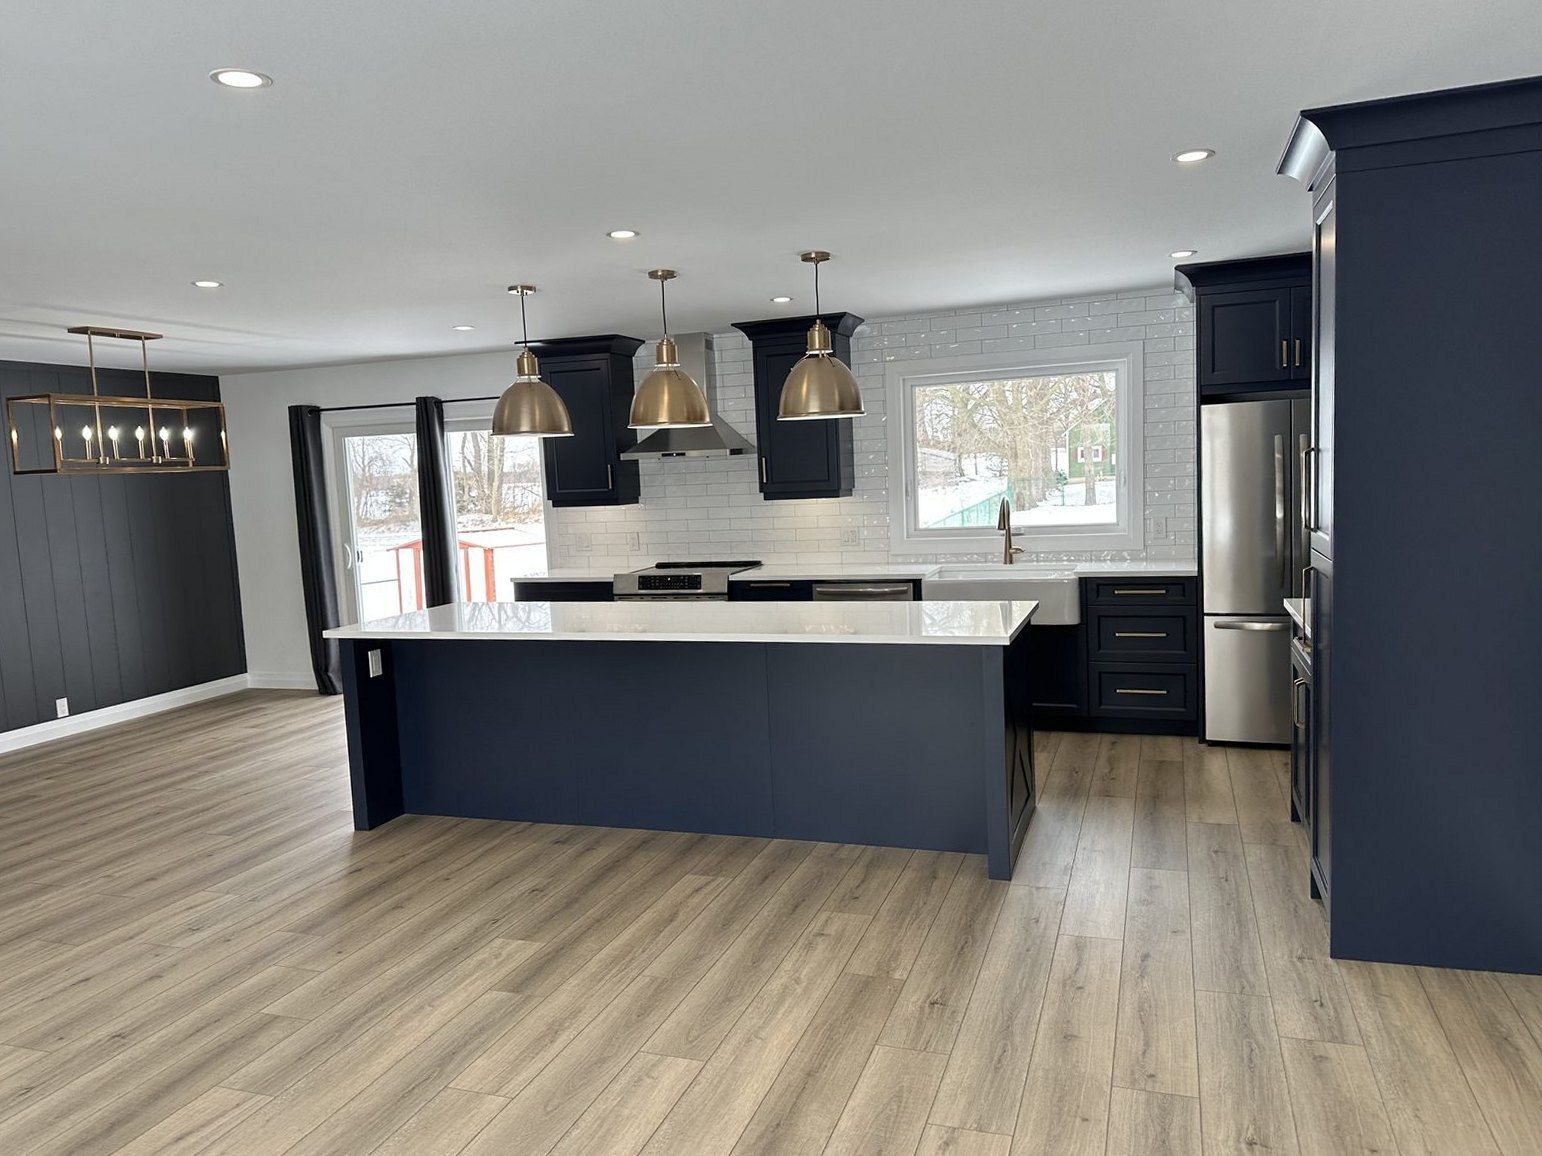
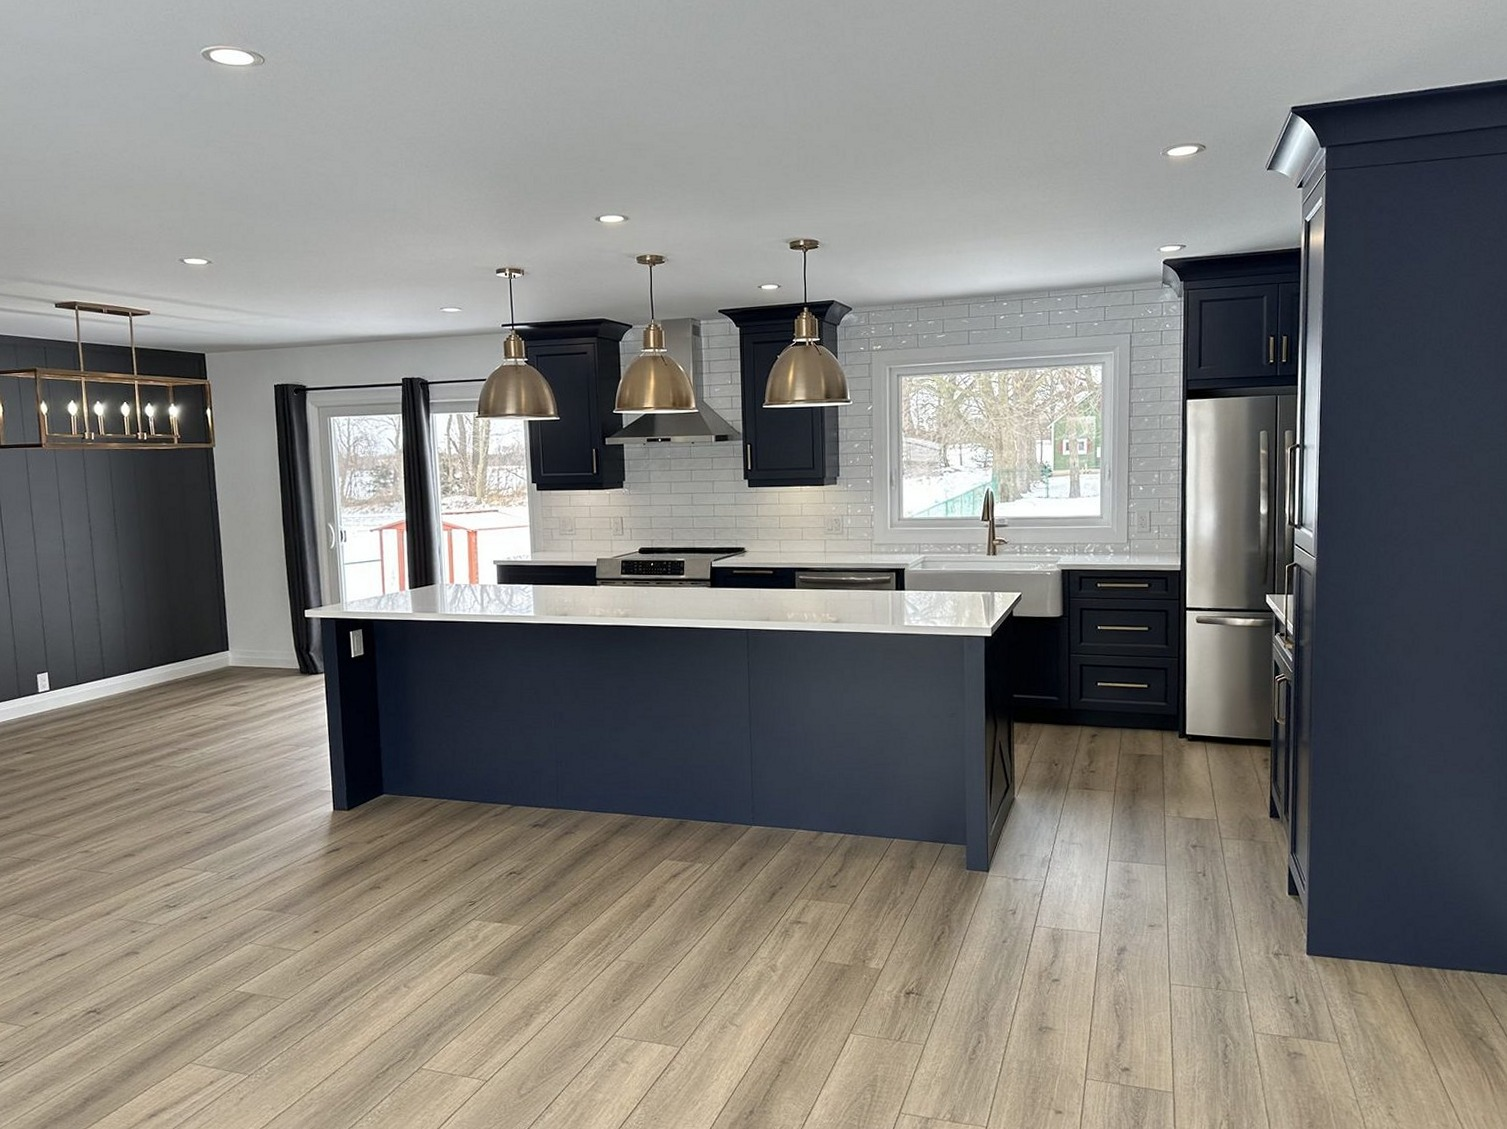
Level the navy kitchen and lead the deck with the wide shot
Rotates the feature photograph a degree clockwise, chosen by eye from
rendered candidates. Two attempts at measuring the tilt automatically
had failed: the first read the diagonal tile patterns as 44 degree
tilts, the second returned the same 0.05 degrees for every photograph
because WebP block edges sit at exactly zero and drown out the content.

The rotation runs from the JPEG rather than the WebP, since the WebP was
derived from it and is a generation further along, and saves at a higher
quality than usual so the extra round trip costs as little as possible.
No larger original of this shot exists in the inbox.

The deck project now opens on the photograph that shows the whole thing,
screens, steps and all, rather than the view along the deck boards.

diff --git a/gallery.html b/gallery.html
@@ -187,13 +187,13 @@
         </li>
         <li class="mosaic__item">
           <button type="button" class="mosaic__btn" data-project="p19">
-            <img src="images/g-deck-wide.webp" alt="Raised cedar deck with privacy screening along two sides" loading="lazy">
+            <img src="images/g-deck-screen.webp" alt="Raised deck with cedar privacy screens and steps down to the garden" loading="lazy">
             <span class="mosaic__label">Deck and privacy screens<em>3 photos</em></span>
           </button>
         </li>
       </ul>
 
-      <script type="application/json" id="project-data">{"p0": {"title": "Fireplace surround", "note": "Full-height porcelain in a marble look, run floor to ceiling and returned around the corner so no cut edge is ever on show. The mantel is solid timber on concealed blocks, set above a see-through firebox.", "photos": [{"src": "images/g-fire-room.webp", "alt": "Black marble-look fireplace surround running full height"}, {"src": "images/g-fire-wide.webp", "alt": "The surround straight on with television above the mantel"}, {"src": "images/g-fire-mantel.webp", "alt": "Timber mantel on cantilevered blocks above the firebox"}]}, "p1": {"title": "Charcoal shower", "note": "Large-format walls with a hexagon feature and a quartz bench. Behind all of it is a bonded waterproofing membrane taken up the walls and over the bench before a single tile went on. Levelling clips hold every tile flush while the mortar cures.", "photos": [{"src": "images/g-shower-done.webp", "alt": "Charcoal shower with hexagon feature wall and quartz bench", "stage": "Finished"}, {"src": "images/g-shower-progress.webp", "alt": "The same shower mid-build, waterproofing membrane and levelling clips visible", "stage": "During: waterproofing and levelling clips"}]}, "p2": {"title": "Fireplace and floating shelves", "note": "Concrete-look porcelain laid in herringbone, which means every tile is a cut and the pattern has to stay true right across the wall. Solid oak mantel and floating shelves, mitred where they return into the corner.", "photos": [{"src": "images/g-fire2-room.webp", "alt": "Living room with herringbone tiled fireplace wall and oak shelves"}, {"src": "images/g-fire2-wall.webp", "alt": "The fireplace wall straight on showing the herringbone pattern"}, {"src": "images/g-fire2-shelves.webp", "alt": "Solid oak floating shelves mitred into the corner"}]}, "p3": {"title": "Marble-look bathroom", "note": "Large-format porcelain with a pebble mosaic strip run floor to ceiling as a feature. The niche is framed in quartz so there is no exposed tile edge anywhere you would put your hand.", "photos": [{"src": "images/g-mbath-shower.webp", "alt": "Shower in marble-look large-format tile"}, {"src": "images/g-mbath-niche.webp", "alt": "Pebble mosaic feature strip beside a quartz-framed niche"}, {"src": "images/g-mbath-vanity.webp", "alt": "Vessel sink on a shaped quartz counter"}, {"src": "images/g-mbath-wide.webp", "alt": "The finished room with round mirror and sconces"}, {"src": "images/g-mbath-tub.webp", "alt": "The same bathroom wider, showing the tub set into the tiled surround"}]}, "p4": {"title": "Navy kitchen", "note": "Shaker cabinetry with a quartz island, glazed subway backsplash and brass pendants. The island end is panelled with a cross detail rather than left flat.", "photos": [{"src": "images/g-kitchen-wide.webp", "alt": "Finished navy kitchen seen from the dining area"}, {"src": "images/g-kitchen-island.webp", "alt": "The island from the side showing the cross-panel end"}, {"src": "images/g-kitchen-range.webp", "alt": "Range wall with stainless hood and tiled backsplash"}, {"src": "images/g-kitchen-galley.webp", "alt": "View along the cabinetry to the farmhouse sink"}]}, "p5": {"title": "Basement, start to finish", "note": "Exposed joists and a concrete floor turned into a laundry and hallway. Framing, insulation and drywall through to herringbone tile, oak cabinetry and a quartz top.", "photos": [{"src": "images/g-base-laundry.webp", "alt": "Finished basement laundry with oak cabinetry and herringbone tile", "stage": "After"}, {"src": "images/g-floor-hall.webp", "alt": "Finished hallway with herringbone tile running through", "stage": "After"}, {"src": "images/g-base-before.webp", "alt": "The same basement before, exposed joists and concrete floor", "stage": "Before"}, {"src": "images/g-base-during.webp", "alt": "Framed up mid-build", "stage": "During: framing"}], "place": "Simcoe"}, "p6": {"title": "White shaker kitchen", "note": "Quartz peninsula, picket tile backsplash and a full run of shaker cabinetry opened to the living room. The floor was out of level, so the boxes were cut and scribed to sit true rather than shimmed.", "photos": [{"src": "images/g-wkit-open.webp", "alt": "White shaker kitchen open to the living room"}, {"src": "images/g-wkit-peninsula.webp", "alt": "Quartz peninsula with undermount sink and pendants"}, {"src": "images/g-wkit-range.webp", "alt": "Range wall with picket tile backsplash"}, {"src": "images/g-wkit-run.webp", "alt": "Full cabinetry run with tall pantry"}]}, "p7": {"title": "Tiled tub surround", "note": "The plastic surround that came with the bathroom was torn out and replaced with large-format porcelain, including a recessed niche trimmed in the same tile so the edges are mitred rather than capped. The before photograph is the old surround, not our work.", "photos": [{"src": "images/g-tub-after.webp", "alt": "Tiled tub surround in marble-look large format with a recessed niche", "stage": "After: tiled"}, {"src": "images/g-tub-before.webp", "alt": "The same tub before, with a moulded plastic surround", "stage": "Before: existing plastic surround"}]}, "p8": {"title": "Built-ins", "note": "Cabinetry built for the room it sits in rather than bought to fit it. Media wall with drawer banks and upper cabinets, and a fitted closet with shelving and rails set out to the owner's things.", "photos": [{"src": "images/g-builtin-media.webp", "alt": "Built-in media wall in sage green"}, {"src": "images/g-closet.webp", "alt": "Fitted closet with built-in shelving and rails"}, {"src": "images/g-builtin-panel.webp", "alt": "Built-in cabinet run below a cross-braced panelled wall"}, {"src": "images/g-closet2.webp", "alt": "Fitted closet with adjustable shelving and a double hanging rail"}]}, "p9": {"title": "Bathroom with patterned floor", "note": "Patterned floor tile laid so the repeat stays centred in the room, with a marble-look shower behind frameless glass.", "photos": [{"src": "images/g-pbath-room.webp", "alt": "The finished bathroom with patterned floor tile, looking through to the shower"}, {"src": "images/g-pbath-shower.webp", "alt": "Marble-look shower with glass surround"}, {"src": "images/g-pbath-bench.webp", "alt": "The shower from the doorway, showing the bench and the patterned floor"}]}, "p10": {"title": "White and black bathroom", "note": "Handmade-look subway run as a wainscot with a capped edge, black fittings throughout, and slate-look floor tile.", "photos": [{"src": "images/g-bath2-shower.webp", "alt": "Tub and shower with black framed sliding glass"}, {"src": "images/g-bath2-vanity.webp", "alt": "Vanity with arched black-framed mirror"}, {"src": "images/g-bath2-wide.webp", "alt": "The finished room showing the tiled wainscot"}, {"src": "images/g-bath2-tub.webp", "alt": "The tub and black framed glass seen from the vanity end"}]}, "p11": {"title": "Basement laundry", "note": "Backsplash tile set off a laser line with levelling clips, a coffered ceiling, plank flooring and fitted panelled doors.", "photos": [{"src": "images/g-laundry-wide.webp", "alt": "Finished basement laundry with tiled backsplash and coffered ceiling"}, {"src": "images/g-laundry-tiling.webp", "alt": "Joel setting the backsplash off a laser line", "stage": "During: setting the backsplash"}, {"src": "images/g-laundry-sink.webp", "alt": "Laundry sink and taps against the tiled wall"}]}, "p12": {"title": "Backsplashes", "note": "Arabesque glass and chevron mosaic. Both are laid out dry first so the cuts land where they are least seen, at the edges rather than through the middle of the wall.", "photos": [{"src": "images/g-tile-arabesque.webp", "alt": "Blue and grey arabesque glass tile backsplash"}, {"src": "images/g-tile-chevron.webp", "alt": "White chevron mosaic tile backsplash"}]}, "p13": {"title": "Sage green kitchen", "note": "Flat panel cabinetry in a muted green with a fireclay apron sink and a built on site hood. The subway tile is stacked to a laser line rather than followed off the counter, so the joints stay true the full width of the wall.", "photos": [{"src": "images/g-sage-wide.webp", "alt": "Sage green kitchen looking down the run to the range and hood"}, {"src": "images/g-sage-sink.webp", "alt": "Fireclay apron sink under the window with subway tile behind"}, {"src": "images/g-sage-fridge.webp", "alt": "Tall cabinetry beside the fridge with a built in microwave"}]}, "p14": {"title": "Marble and black bathroom", "note": "Tub and shower in one room, in large format porcelain with a marble look. The tub apron is tiled and mitred at the corner rather than capped with trim, and the niche is lined in the same dark hexagon mosaic as the floor.", "photos": [{"src": "images/g-cbath-shower.webp", "alt": "Shower in marble look porcelain behind black framed glass"}, {"src": "images/g-cbath-tub.webp", "alt": "Tub set into a tiled surround with black fittings"}]}, "p15": {"title": "Traditional white kitchen", "note": "Painted cabinetry with glazed upper doors, a tiled backsplash and large format stone look floor tile carried through into the dining area.", "photos": [{"src": "images/g-tkit-wide.webp", "alt": "White kitchen with glazed upper cabinets and a tiled floor"}, {"src": "images/g-tkit-glass.webp", "alt": "Cabinetry beside the patio door with glass fronted uppers"}]}, "p16": {"title": "Herringbone range wall", "note": "Stone look porcelain run in herringbone the full height behind the range. Every tile in a herringbone is a cut, and the layout is set off the centre line of the hood so the pattern stays symmetrical on both sides.", "photos": [{"src": "images/g-hkit-hood.webp", "alt": "Herringbone tiled range wall with a stainless chimney hood"}]}, "p17": {"title": "Geometric backsplash", "note": "A geometric mosaic against dark stained cabinetry and a quartz counter. Sheet mosaic shows every misalignment, so the sheets are dry laid across the whole run and the grid trued up before any of it is fixed.", "photos": [{"src": "images/g-gkit-backsplash.webp", "alt": "White geometric mosaic backsplash above a quartz counter"}]}, "p18": {"title": "New counters, existing cabinets", "note": "The oak was sound and worth keeping, so the job was quartz counters, a new sink and tap and a tiled backsplash, rather than tearing out a kitchen that had years left in it.", "photos": [{"src": "images/g-counters-oak.webp", "alt": "Quartz counters and a new backsplash fitted to existing oak cabinets"}]}, "p19": {"title": "Deck and privacy screens", "note": "A raised deck with cedar privacy screens. The screens are framed and infilled rather than butted together, so the boards can move with the weather without opening gaps along the joints.", "photos": [{"src": "images/g-deck-wide.webp", "alt": "Raised cedar deck with privacy screening along two sides"}, {"src": "images/g-deck-screen.webp", "alt": "Privacy screens and steps down to the garden"}, {"src": "images/g-deck-cedar.webp", "alt": "Cedar screen wall seen along the deck"}]}}</script>
+      <script type="application/json" id="project-data">{"p0": {"title": "Fireplace surround", "note": "Full-height porcelain in a marble look, run floor to ceiling and returned around the corner so no cut edge is ever on show. The mantel is solid timber on concealed blocks, set above a see-through firebox.", "photos": [{"src": "images/g-fire-room.webp", "alt": "Black marble-look fireplace surround running full height"}, {"src": "images/g-fire-wide.webp", "alt": "The surround straight on with television above the mantel"}, {"src": "images/g-fire-mantel.webp", "alt": "Timber mantel on cantilevered blocks above the firebox"}]}, "p1": {"title": "Charcoal shower", "note": "Large-format walls with a hexagon feature and a quartz bench. Behind all of it is a bonded waterproofing membrane taken up the walls and over the bench before a single tile went on. Levelling clips hold every tile flush while the mortar cures.", "photos": [{"src": "images/g-shower-done.webp", "alt": "Charcoal shower with hexagon feature wall and quartz bench", "stage": "Finished"}, {"src": "images/g-shower-progress.webp", "alt": "The same shower mid-build, waterproofing membrane and levelling clips visible", "stage": "During: waterproofing and levelling clips"}]}, "p2": {"title": "Fireplace and floating shelves", "note": "Concrete-look porcelain laid in herringbone, which means every tile is a cut and the pattern has to stay true right across the wall. Solid oak mantel and floating shelves, mitred where they return into the corner.", "photos": [{"src": "images/g-fire2-room.webp", "alt": "Living room with herringbone tiled fireplace wall and oak shelves"}, {"src": "images/g-fire2-wall.webp", "alt": "The fireplace wall straight on showing the herringbone pattern"}, {"src": "images/g-fire2-shelves.webp", "alt": "Solid oak floating shelves mitred into the corner"}]}, "p3": {"title": "Marble-look bathroom", "note": "Large-format porcelain with a pebble mosaic strip run floor to ceiling as a feature. The niche is framed in quartz so there is no exposed tile edge anywhere you would put your hand.", "photos": [{"src": "images/g-mbath-shower.webp", "alt": "Shower in marble-look large-format tile"}, {"src": "images/g-mbath-niche.webp", "alt": "Pebble mosaic feature strip beside a quartz-framed niche"}, {"src": "images/g-mbath-vanity.webp", "alt": "Vessel sink on a shaped quartz counter"}, {"src": "images/g-mbath-wide.webp", "alt": "The finished room with round mirror and sconces"}, {"src": "images/g-mbath-tub.webp", "alt": "The same bathroom wider, showing the tub set into the tiled surround"}]}, "p4": {"title": "Navy kitchen", "note": "Shaker cabinetry with a quartz island, glazed subway backsplash and brass pendants. The island end is panelled with a cross detail rather than left flat.", "photos": [{"src": "images/g-kitchen-wide.webp", "alt": "Finished navy kitchen seen from the dining area"}, {"src": "images/g-kitchen-island.webp", "alt": "The island from the side showing the cross-panel end"}, {"src": "images/g-kitchen-range.webp", "alt": "Range wall with stainless hood and tiled backsplash"}, {"src": "images/g-kitchen-galley.webp", "alt": "View along the cabinetry to the farmhouse sink"}]}, "p5": {"title": "Basement, start to finish", "note": "Exposed joists and a concrete floor turned into a laundry and hallway. Framing, insulation and drywall through to herringbone tile, oak cabinetry and a quartz top.", "photos": [{"src": "images/g-base-laundry.webp", "alt": "Finished basement laundry with oak cabinetry and herringbone tile", "stage": "After"}, {"src": "images/g-floor-hall.webp", "alt": "Finished hallway with herringbone tile running through", "stage": "After"}, {"src": "images/g-base-before.webp", "alt": "The same basement before, exposed joists and concrete floor", "stage": "Before"}, {"src": "images/g-base-during.webp", "alt": "Framed up mid-build", "stage": "During: framing"}], "place": "Simcoe"}, "p6": {"title": "White shaker kitchen", "note": "Quartz peninsula, picket tile backsplash and a full run of shaker cabinetry opened to the living room. The floor was out of level, so the boxes were cut and scribed to sit true rather than shimmed.", "photos": [{"src": "images/g-wkit-open.webp", "alt": "White shaker kitchen open to the living room"}, {"src": "images/g-wkit-peninsula.webp", "alt": "Quartz peninsula with undermount sink and pendants"}, {"src": "images/g-wkit-range.webp", "alt": "Range wall with picket tile backsplash"}, {"src": "images/g-wkit-run.webp", "alt": "Full cabinetry run with tall pantry"}]}, "p7": {"title": "Tiled tub surround", "note": "The plastic surround that came with the bathroom was torn out and replaced with large-format porcelain, including a recessed niche trimmed in the same tile so the edges are mitred rather than capped. The before photograph is the old surround, not our work.", "photos": [{"src": "images/g-tub-after.webp", "alt": "Tiled tub surround in marble-look large format with a recessed niche", "stage": "After: tiled"}, {"src": "images/g-tub-before.webp", "alt": "The same tub before, with a moulded plastic surround", "stage": "Before: existing plastic surround"}]}, "p8": {"title": "Built-ins", "note": "Cabinetry built for the room it sits in rather than bought to fit it. Media wall with drawer banks and upper cabinets, and a fitted closet with shelving and rails set out to the owner's things.", "photos": [{"src": "images/g-builtin-media.webp", "alt": "Built-in media wall in sage green"}, {"src": "images/g-closet.webp", "alt": "Fitted closet with built-in shelving and rails"}, {"src": "images/g-builtin-panel.webp", "alt": "Built-in cabinet run below a cross-braced panelled wall"}, {"src": "images/g-closet2.webp", "alt": "Fitted closet with adjustable shelving and a double hanging rail"}]}, "p9": {"title": "Bathroom with patterned floor", "note": "Patterned floor tile laid so the repeat stays centred in the room, with a marble-look shower behind frameless glass.", "photos": [{"src": "images/g-pbath-room.webp", "alt": "The finished bathroom with patterned floor tile, looking through to the shower"}, {"src": "images/g-pbath-shower.webp", "alt": "Marble-look shower with glass surround"}, {"src": "images/g-pbath-bench.webp", "alt": "The shower from the doorway, showing the bench and the patterned floor"}]}, "p10": {"title": "White and black bathroom", "note": "Handmade-look subway run as a wainscot with a capped edge, black fittings throughout, and slate-look floor tile.", "photos": [{"src": "images/g-bath2-shower.webp", "alt": "Tub and shower with black framed sliding glass"}, {"src": "images/g-bath2-vanity.webp", "alt": "Vanity with arched black-framed mirror"}, {"src": "images/g-bath2-wide.webp", "alt": "The finished room showing the tiled wainscot"}, {"src": "images/g-bath2-tub.webp", "alt": "The tub and black framed glass seen from the vanity end"}]}, "p11": {"title": "Basement laundry", "note": "Backsplash tile set off a laser line with levelling clips, a coffered ceiling, plank flooring and fitted panelled doors.", "photos": [{"src": "images/g-laundry-wide.webp", "alt": "Finished basement laundry with tiled backsplash and coffered ceiling"}, {"src": "images/g-laundry-tiling.webp", "alt": "Joel setting the backsplash off a laser line", "stage": "During: setting the backsplash"}, {"src": "images/g-laundry-sink.webp", "alt": "Laundry sink and taps against the tiled wall"}]}, "p12": {"title": "Backsplashes", "note": "Arabesque glass and chevron mosaic. Both are laid out dry first so the cuts land where they are least seen, at the edges rather than through the middle of the wall.", "photos": [{"src": "images/g-tile-arabesque.webp", "alt": "Blue and grey arabesque glass tile backsplash"}, {"src": "images/g-tile-chevron.webp", "alt": "White chevron mosaic tile backsplash"}]}, "p13": {"title": "Sage green kitchen", "note": "Flat panel cabinetry in a muted green with a fireclay apron sink and a built on site hood. The subway tile is stacked to a laser line rather than followed off the counter, so the joints stay true the full width of the wall.", "photos": [{"src": "images/g-sage-wide.webp", "alt": "Sage green kitchen looking down the run to the range and hood"}, {"src": "images/g-sage-sink.webp", "alt": "Fireclay apron sink under the window with subway tile behind"}, {"src": "images/g-sage-fridge.webp", "alt": "Tall cabinetry beside the fridge with a built in microwave"}]}, "p14": {"title": "Marble and black bathroom", "note": "Tub and shower in one room, in large format porcelain with a marble look. The tub apron is tiled and mitred at the corner rather than capped with trim, and the niche is lined in the same dark hexagon mosaic as the floor.", "photos": [{"src": "images/g-cbath-shower.webp", "alt": "Shower in marble look porcelain behind black framed glass"}, {"src": "images/g-cbath-tub.webp", "alt": "Tub set into a tiled surround with black fittings"}]}, "p15": {"title": "Traditional white kitchen", "note": "Painted cabinetry with glazed upper doors, a tiled backsplash and large format stone look floor tile carried through into the dining area.", "photos": [{"src": "images/g-tkit-wide.webp", "alt": "White kitchen with glazed upper cabinets and a tiled floor"}, {"src": "images/g-tkit-glass.webp", "alt": "Cabinetry beside the patio door with glass fronted uppers"}]}, "p16": {"title": "Herringbone range wall", "note": "Stone look porcelain run in herringbone the full height behind the range. Every tile in a herringbone is a cut, and the layout is set off the centre line of the hood so the pattern stays symmetrical on both sides.", "photos": [{"src": "images/g-hkit-hood.webp", "alt": "Herringbone tiled range wall with a stainless chimney hood"}]}, "p17": {"title": "Geometric backsplash", "note": "A geometric mosaic against dark stained cabinetry and a quartz counter. Sheet mosaic shows every misalignment, so the sheets are dry laid across the whole run and the grid trued up before any of it is fixed.", "photos": [{"src": "images/g-gkit-backsplash.webp", "alt": "White geometric mosaic backsplash above a quartz counter"}]}, "p18": {"title": "New counters, existing cabinets", "note": "The oak was sound and worth keeping, so the job was quartz counters, a new sink and tap and a tiled backsplash, rather than tearing out a kitchen that had years left in it.", "photos": [{"src": "images/g-counters-oak.webp", "alt": "Quartz counters and a new backsplash fitted to existing oak cabinets"}]}, "p19": {"title": "Deck and privacy screens", "note": "A raised deck with cedar privacy screens. The screens are framed and infilled rather than butted together, so the boards can move with the weather without opening gaps along the joints.", "photos": [{"src": "images/g-deck-screen.webp", "alt": "Raised deck with cedar privacy screens and steps down to the garden"}, {"src": "images/g-deck-wide.webp", "alt": "Raised cedar deck with privacy screening along two sides"}, {"src": "images/g-deck-cedar.webp", "alt": "Cedar screen wall seen along the deck"}]}}</script>
     </div>
   </section>
 
